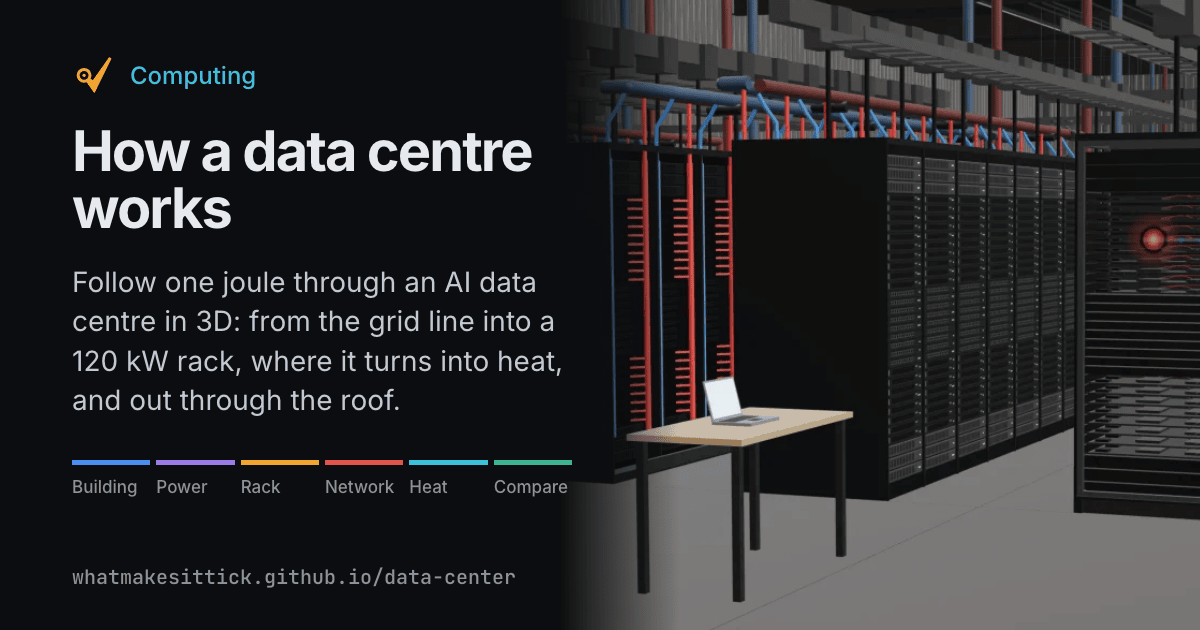
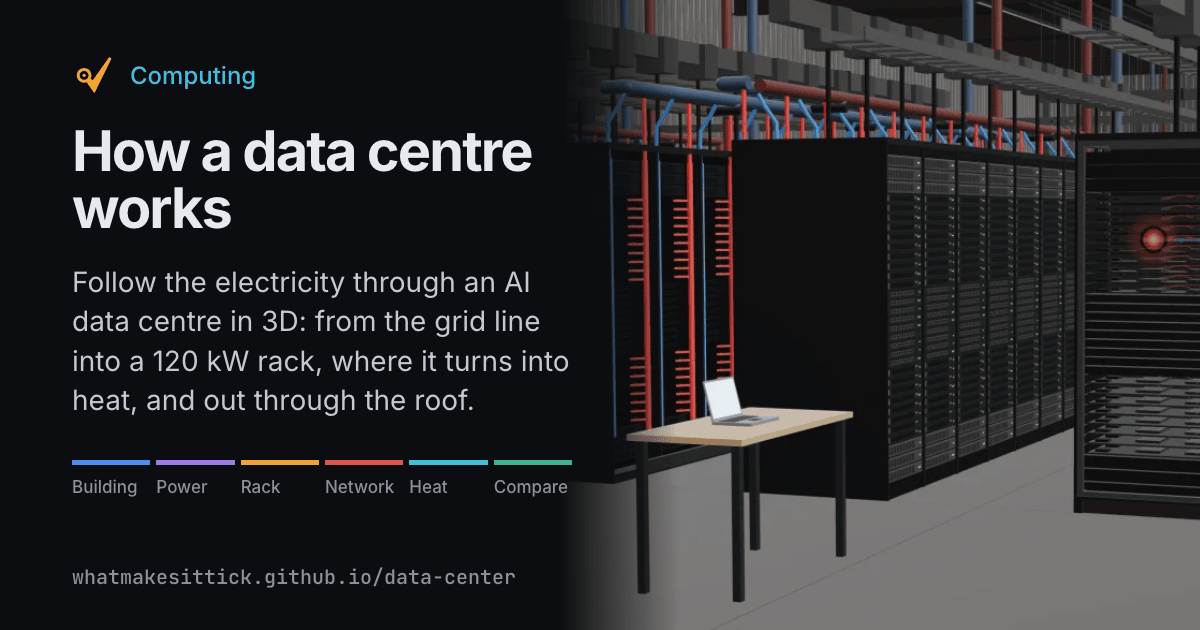
fix(data-center): drop the joule story and tighten the English copy

Changed region(s): [[0.0617, 0.4222, 0.4933, 0.6635], [0.5242, 0.6635, 0.5858, 0.6937]]

diff --git a/explainers/data-center/chapters.html b/explainers/data-center/chapters.html
@@ -2,19 +2,19 @@
   <p class="chapter-index">01</p>
   <h2 id="building-title" data-i18n="sections.building.title">Electricity in, heat out</h2>
   <p data-i18n-html="sections.building.p1">
-    A data centre is a building full of computers that run websites, apps and AI. Think of it as one
-    big machine with a simple cycle: electricity comes in, and heat goes out. Power arrives on a
+    A data centre is a building full of computers that run websites, apps and AI. Its working cycle
+    is simple: electricity comes in, and heat goes out. Power arrives on a
     <strong>grid line</strong> and steps down in the <strong>substation</strong>. Rows of
-    <strong>diesel generators</strong> wait beside the <strong>data hall</strong>. On its roof, a
-    <strong>chiller</strong> cools water much like a big fridge, and
-    <strong>dry coolers</strong> hand the heat to the outside air.
+    <strong>diesel generators</strong> stand beside the <strong>data hall</strong>. On its roof, a
+    <strong>chiller</strong> cools water much like a large fridge, and
+    <strong>dry coolers</strong> pass the heat to the outside air.
   </p>
   <p data-i18n-html="sections.building.p2">
     Inside the hall stand the <strong>racks</strong>, tall steel cabinets packed with computers.
     This model's hall holds 192 racks in 16 rows, a layout of its own, since real halls come in
-    every size. With every rack running flat out, the computers draw about 23 MW. Add the cooling
-    and the power lost on the way, and an average site takes about 35 MW from the grid. The last
-    chapter shows how the best sites do better.
+    every size. With every rack at full load, the computers draw about 23 MW. Add the cooling and
+    the power lost on the way, and an average site takes about 35 MW from the grid. The last chapter
+    shows how the best sites do better.
   </p>
   <p data-i18n-html="sections.building.p3">
     Together, the world's data centres used about 415 TWh of electricity in 2024. That is about 1.5
@@ -23,12 +23,12 @@
     end of 2024. Google opened its first data centre in 2006, in The Dalles, Oregon.
   </p>
   <p data-i18n-html="sections.building.p4">
-    This model follows one <strong>joule</strong>, a small amount of energy, through the site. Real
-    energy does not travel in single lumps, but following one shows where it all goes. The glowing
-    bead is the joule: amber as electricity, red once it turns into heat. It reaches its chip in
-    under a microsecond, then needs about a minute to leave through the roof. So the playback
-    stretches the fast part and squeezes the slow one, and the clock shows the model's timing, not a
-    measurement.
+    The glowing <strong>marker</strong> shows where the energy is at each moment of the playback:
+    amber while it is electricity, red once it has turned into heat. Energy does not travel in
+    single lumps, but tracking one small amount of it shows where all of it goes. Electricity
+    reaches a chip in under a microsecond, and the heat then needs about a minute to leave through
+    the roof. So the playback stretches the fast part and compresses the slow one, and the clock
+    shows the model's timing, not a measurement.
   </p>
   <div class="chip-row" role="group" data-i18n-attr="aria-label:controls.groups.moment">
     <button
@@ -94,25 +94,25 @@
   <p class="chapter-index">02</p>
   <h2 id="powerIn-title" data-i18n="sections.powerIn.title">Power that must not stop</h2>
   <p data-i18n-html="sections.powerIn.p1">
-    The joule arrives on the <strong>grid line</strong> at high voltage, which carries power a long
-    way with little loss. The <strong>substation</strong> and its <strong>transformers</strong> step
-    the voltage down, and smaller transformers step it down again near the hall. Each one passes on
-    about 98 to 99 percent of the energy. The voltages here are one example; every site picks its
-    own.
+    Electricity arrives on the <strong>grid line</strong> at high voltage, which carries power over
+    long distances with little loss. The <strong>substation</strong> and its
+    <strong>transformers</strong> step the voltage down, and smaller transformers step it down again
+    near the hall. Each one passes on about 98 to 99 percent of the energy. The voltages here are
+    one example; every site chooses its own.
   </p>
   <p data-i18n-html="sections.powerIn.p2">
-    Next comes the <strong>switchgear</strong>, a wall of big switches that route the power and cut
-    off any part that fails. Then the joule passes the <strong>UPS</strong>, short for
-    uninterruptible power supply, with its <strong>batteries</strong>. If the grid fails, the
+    Next comes the <strong>switchgear</strong>, a wall of large switches that route the power and
+    isolate any part that fails. The power then passes through the <strong>UPS</strong>, short for
+    uninterruptible power supply, and its <strong>batteries</strong>. If the grid fails, the
     batteries take over at once and can carry the hall for minutes, typically 5 to 15. From there
     the <strong>busway</strong>, thick metal bars inside a long case, carries the power into the
     hall and along the rows.
   </p>
   <p data-i18n-html="sections.powerIn.p3">
     Batteries only buy time. The real backup is the <strong>diesel generators</strong>. Safety codes
-    ask them to take over within 10 seconds, and real sites take anywhere from 10 to 60. One such
-    set, Caterpillar's Cat 3516C, gives about 1.8 MW, weighs about 17 tonnes and burns about 466
-    litres of diesel an hour at full load. Larger versions of it reach about 2.5 MW.
+    require them to take over within 10 seconds, and real sites take anywhere from 10 to 60. One
+    such set, Caterpillar's Cat 3516C, delivers about 1.8 MW, weighs about 17 tonnes and burns about
+    466 litres of diesel an hour at full load. Larger versions reach about 2.5 MW.
   </p>
   <div class="chip-row" role="group" data-i18n-attr="aria-label:controls.groups.outage">
     <button
@@ -126,11 +126,12 @@
     </button>
   </div>
   <p data-i18n-html="sections.powerIn.p4">
-    Press Cut the grid to run a drill. The batteries carry the hall while the generators start. Then
-    the generators take over and the batteries recharge. In this model the grid comes back after 20
-    seconds, a length chosen for the drill, and the generators wind down. Sites are graded by how
-    well they handle failures: Tier III can be serviced without shutting down, and Tier IV keeps
-    running through a fault. Even so, power problems caused 45 percent of serious outages in 2025.
+    Press Cut the grid to run a drill. The batteries carry the hall while the generators start. The
+    generators then take over and the batteries recharge. In this model the grid returns after 20
+    seconds, a length chosen for the drill, and the generators wind down. Sites are rated by how
+    well they handle failures: a Tier III site can be serviced without shutting down, and a Tier IV
+    site keeps running through a fault. Even so, power problems caused 45 percent of serious outages
+    in 2025.
   </p>
   <dl class="readouts">
     <div>
@@ -164,15 +165,15 @@
   <p class="chapter-index">03</p>
   <h2 id="rack-title" data-i18n="sections.rack.title">Inside a 120 kW rack</h2>
   <p data-i18n-html="sections.rack.p1">
-    This is where the joule is heading: an <strong>Nvidia GB200 NVL72</strong> rack. It holds 72
-    GPUs, the chips that do the maths for AI, and 36 CPUs, the chips that run everything around
-    them. They sit on 18 <strong>compute trays</strong>, flat drawers that slide into the rack.
-    Between them, 9 <strong>switch trays</strong> link all 72 GPUs together. The order of the trays
-    here is the model's own.
+    The power is heading for an <strong>Nvidia GB200 NVL72</strong> rack. It holds 72 GPUs, the
+    chips that do the maths for AI, and 36 CPUs, the chips that run everything around them. They sit
+    on 18 <strong>compute trays</strong>, flat drawers that slide into the rack. Between them, 9
+    <strong>switch trays</strong> link all 72 GPUs together. The order of the trays here is the
+    model's own.
   </p>
   <p data-i18n-html="sections.rack.p2">
-    Power enters at the top and the bottom, into six <strong>power shelves</strong>. They turn the
-    hall's alternating current (AC) into direct current (DC) at about 50 V. The
+    Power enters at the top and the bottom, into six <strong>power shelves</strong>. They convert
+    the hall's alternating current (AC) into direct current (DC) at about 50 V. The
     <strong>DC busbar</strong>, thick copper bars down the back of the rack, feeds every tray with
     up to 1,400 A. At about 50 V, that comes to about 70 kW, well short of the rack's 120 kW. So in
     this model the busbar has an upper and a lower half, each fed by three shelves. The real split
@@ -180,10 +181,11 @@
   </p>
   <p data-i18n-html="sections.rack.p3">
     At full load the rack draws about 120 kW, and HPE lists 132 kW for its version. Roughly a tenth
-    of the power from the grid is lost before it gets here, as heat in the transformers, the UPS and
-    the power shelves. The rack weighs roughly 1.4 tonnes, about as much as a mid-size electric car.
-    Many halls stand on a raised floor, with cables and air running underneath. A standard one is
-    not built for that much weight on a small spot, so AI halls need a stronger floor.
+    of the power from the grid is lost before it reaches the rack, as heat in the transformers, the
+    UPS and the power shelves. The rack weighs roughly 1.4 tonnes, about as much as a mid-size
+    electric car. Many halls stand on a raised floor, with cables and air running underneath. A
+    standard one is not built for that much weight on a small area, so AI halls need a stronger
+    floor.
   </p>
   <div class="chip-row" role="group" data-i18n-attr="aria-label:controls.groups.load">
     <button
@@ -206,12 +208,11 @@
     </button>
   </div>
   <p data-i18n-html="sections.rack.p4">
-    In a GPU, the joule finally does its work, switching tiny transistors on and off to do the
-    maths. The work keeps none of the energy: almost all of it turns into heat at once, right in the
-    chip. The <strong>chip close-up</strong> shows one chip 10 times larger, with its sizes drawn,
-    not measured. Small <strong>tray fans</strong> still cool the network cards and storage. Switch
-    to Idle to see the load drop. In this model an idle rack still draws 30 percent of its full
-    power.
+    Inside a GPU, the electricity switches tiny transistors on and off to do the maths. That work
+    keeps none of the energy: almost all of it turns into heat at once, inside the chip. The
+    <strong>chip close-up</strong> shows one chip 10 times larger, with its sizes drawn, not
+    measured. Small <strong>tray fans</strong> still cool the network cards and storage. Switch to
+    Idle to see the load drop. In this model an idle rack still draws 30 percent of its full power.
   </p>
   <dl class="readouts">
     <div>
@@ -249,10 +250,10 @@
   <p class="chapter-index">04</p>
   <h2 id="network-title" data-i18n="sections.network.title">A few microseconds apart</h2>
   <p data-i18n-html="sections.network.p1">
-    Big AI jobs are split across many GPUs, so the chips must talk to each other all the time.
-    Inside the rack they use NVLink, copper links that run through the
-    <strong>switch trays</strong>. Each GPU can send and receive 1.8 TB/s, and the whole rack 130
-    TB/s. TB/s means terabytes per second, a trillion bytes every second.
+    Large AI jobs are split across many GPUs, so the chips exchange data constantly. Inside the rack
+    they use NVLink, copper links that run through the <strong>switch trays</strong>. Each GPU can
+    send and receive 1.8 TB/s, and the whole rack 130 TB/s. TB/s means terabytes per second, a
+    trillion bytes every second.
   </p>
   <p data-i18n-html="sections.network.p2">
     Between racks, the data goes through network switches. Each row has a
@@ -268,9 +269,9 @@
     from the <strong>fibre entry</strong> through the switches to the rack.
   </p>
   <p data-i18n-html="sections.network.p4">
-    The slow part is the trip to you. A trip through the fibre to a city 1,000 km away and back
-    takes about 10 milliseconds. For a city 100 km away, it takes about 1. That counts the fibre
-    alone. The software adds its own time on top. Pick a distance to compare.
+    The longest delay is the path to the user. A round trip through the fibre to a city 1,000 km
+    away takes about 10 milliseconds. For a city 100 km away, it takes about 1. That counts the
+    fibre alone. The software adds its own time on top. Pick a distance to compare.
   </p>
   <div class="chip-row" role="group" data-i18n-attr="aria-label:controls.groups.distance">
     <button
@@ -310,7 +311,7 @@
       <dd class="number" data-readout="hall">about 2.6 µs, three switches and the fibre</dd>
     </div>
     <div>
-      <dt data-i18n="chapters.network.roundTrip">There and back to you</dt>
+      <dt data-i18n="chapters.network.roundTrip">Round trip to the user</dt>
       <dd class="number" data-readout="roundTrip">about 9.8 ms, fibre alone</dd>
     </div>
   </dl>
@@ -320,10 +321,10 @@
   <p class="chapter-index">05</p>
   <h2 id="heatOut-title" data-i18n="sections.heatOut.title">Getting the heat out</h2>
   <p data-i18n-html="sections.heatOut.p1">
-    The joule is heat now, and it has to go. On each chip sits a cold plate, a metal block with
-    water flowing through it. In a keynote, Nvidia said the water enters the rack at about 25 °C and
-    leaves at about 45 °C. This model sets its pump flow so that a full rack warms the water by
-    those 20 degrees.
+    The energy is now heat, and it has to be removed. On each chip sits a cold plate, a metal block
+    with water flowing through it. In a keynote, Nvidia said the water enters the rack at about 25
+    °C and leaves at about 45 °C. This model sets its pump flow so that a full rack warms the water
+    by those 20 degrees.
   </p>
   <p data-i18n-html="sections.heatOut.p2">
     The <strong>manifold</strong>, pipes down the side of the rack, sends the warm water along the
@@ -335,7 +336,7 @@
   <p data-i18n-html="sections.heatOut.p3">
     The <strong>facility pipes</strong> carry the heat up to the roof. Water at 20 °C is cooler than
     many summer days, so the <strong>chiller</strong> first pumps heat out of it. Then the
-    <strong>dry coolers</strong> blow outside air over hot coils, and the joule finally leaves as
+    <strong>dry coolers</strong> blow outside air over hot coils, and the heat leaves the site as
     warm air. Here every loop is closed, so very little water is used. Many sites use cooling towers
     instead, which cool by evaporating water. US data centres used about 66 billion litres on site
     in 2023.
@@ -361,16 +362,15 @@
     </button>
   </div>
   <p data-i18n-html="sections.heatOut.p4">
-    Pick Air to swap in air-cooled racks, the classic way. Fans pull cool air in at the front of
-    each rack and blow it out the back, into a hot aisle: the gap between two rows where the warm
-    air gathers.
-    <strong>Air handlers</strong> then pass its heat into the same facility water. Air holds far
-    less heat than water, so each kW needs about 272 m³ of air an hour. Some sites even put their
-    heat to use: in Odense and Stockholm, data centres help warm homes.
+    Pick Air to swap in air-cooled racks, the traditional approach. Fans pull cool air in at the
+    front of each rack and blow it out the back, into a hot aisle: the gap between two rows where
+    the warm air gathers. <strong>Air handlers</strong> then pass its heat into the same facility
+    water. Air holds far less heat than water, so each kW needs about 272 m³ of air an hour. Some
+    sites put their heat to use: in Odense and Stockholm, data centres help warm homes.
   </p>
   <dl class="readouts">
     <div>
-      <dt data-i18n="chapters.heatOut.rise">Warm-up through the rack</dt>
+      <dt data-i18n="chapters.heatOut.rise">Temperature rise through the rack</dt>
       <dd class="number" data-readout="rise">the water leaves 20 degrees warmer</dd>
     </div>
     <div>
@@ -459,7 +459,7 @@
   <p data-i18n-html="sections.compare.p4">
     This toggle changes which site you compare against, not how the rack is cooled. No study gives
     PUE for air and liquid cooling separately, so the model does not tie the two together. Whichever
-    you pick, the joule's trip ends the same way: as a little warmth in the air above the roof.
+    you pick, the energy path ends the same way: as warm air above the roof.
   </p>
   <dl class="readouts">
     <div>
@@ -471,7 +471,7 @@
       <dd class="number" data-readout="airNeeded">32,640 m³/h</dd>
     </div>
     <div>
-      <dt data-i18n="chapters.compare.homes">Homes, run all year</dt>
+      <dt data-i18n="chapters.compare.homes">Homes, over a full year</dt>
       <dd class="number" data-readout="homes">about 97 US or 270 EU homes</dd>
     </div>
     <div>

diff --git a/scripts/cards/data-center.html b/scripts/cards/data-center.html
@@ -140,8 +140,8 @@
       </p>
       <h1>How a data centre works</h1>
       <p class="subtitle">
-        Follow one joule through an AI data centre in 3D: from the grid line into a 120 kW rack,
-        where it turns into heat, and out through the roof.
+        Follow the electricity through an AI data centre in 3D: from the grid line into a 120 kW
+        rack, where it turns into heat, and out through the roof.
       </p>
       <ol class="topics">
         <li style="--tone: var(--building)">Building</li>
